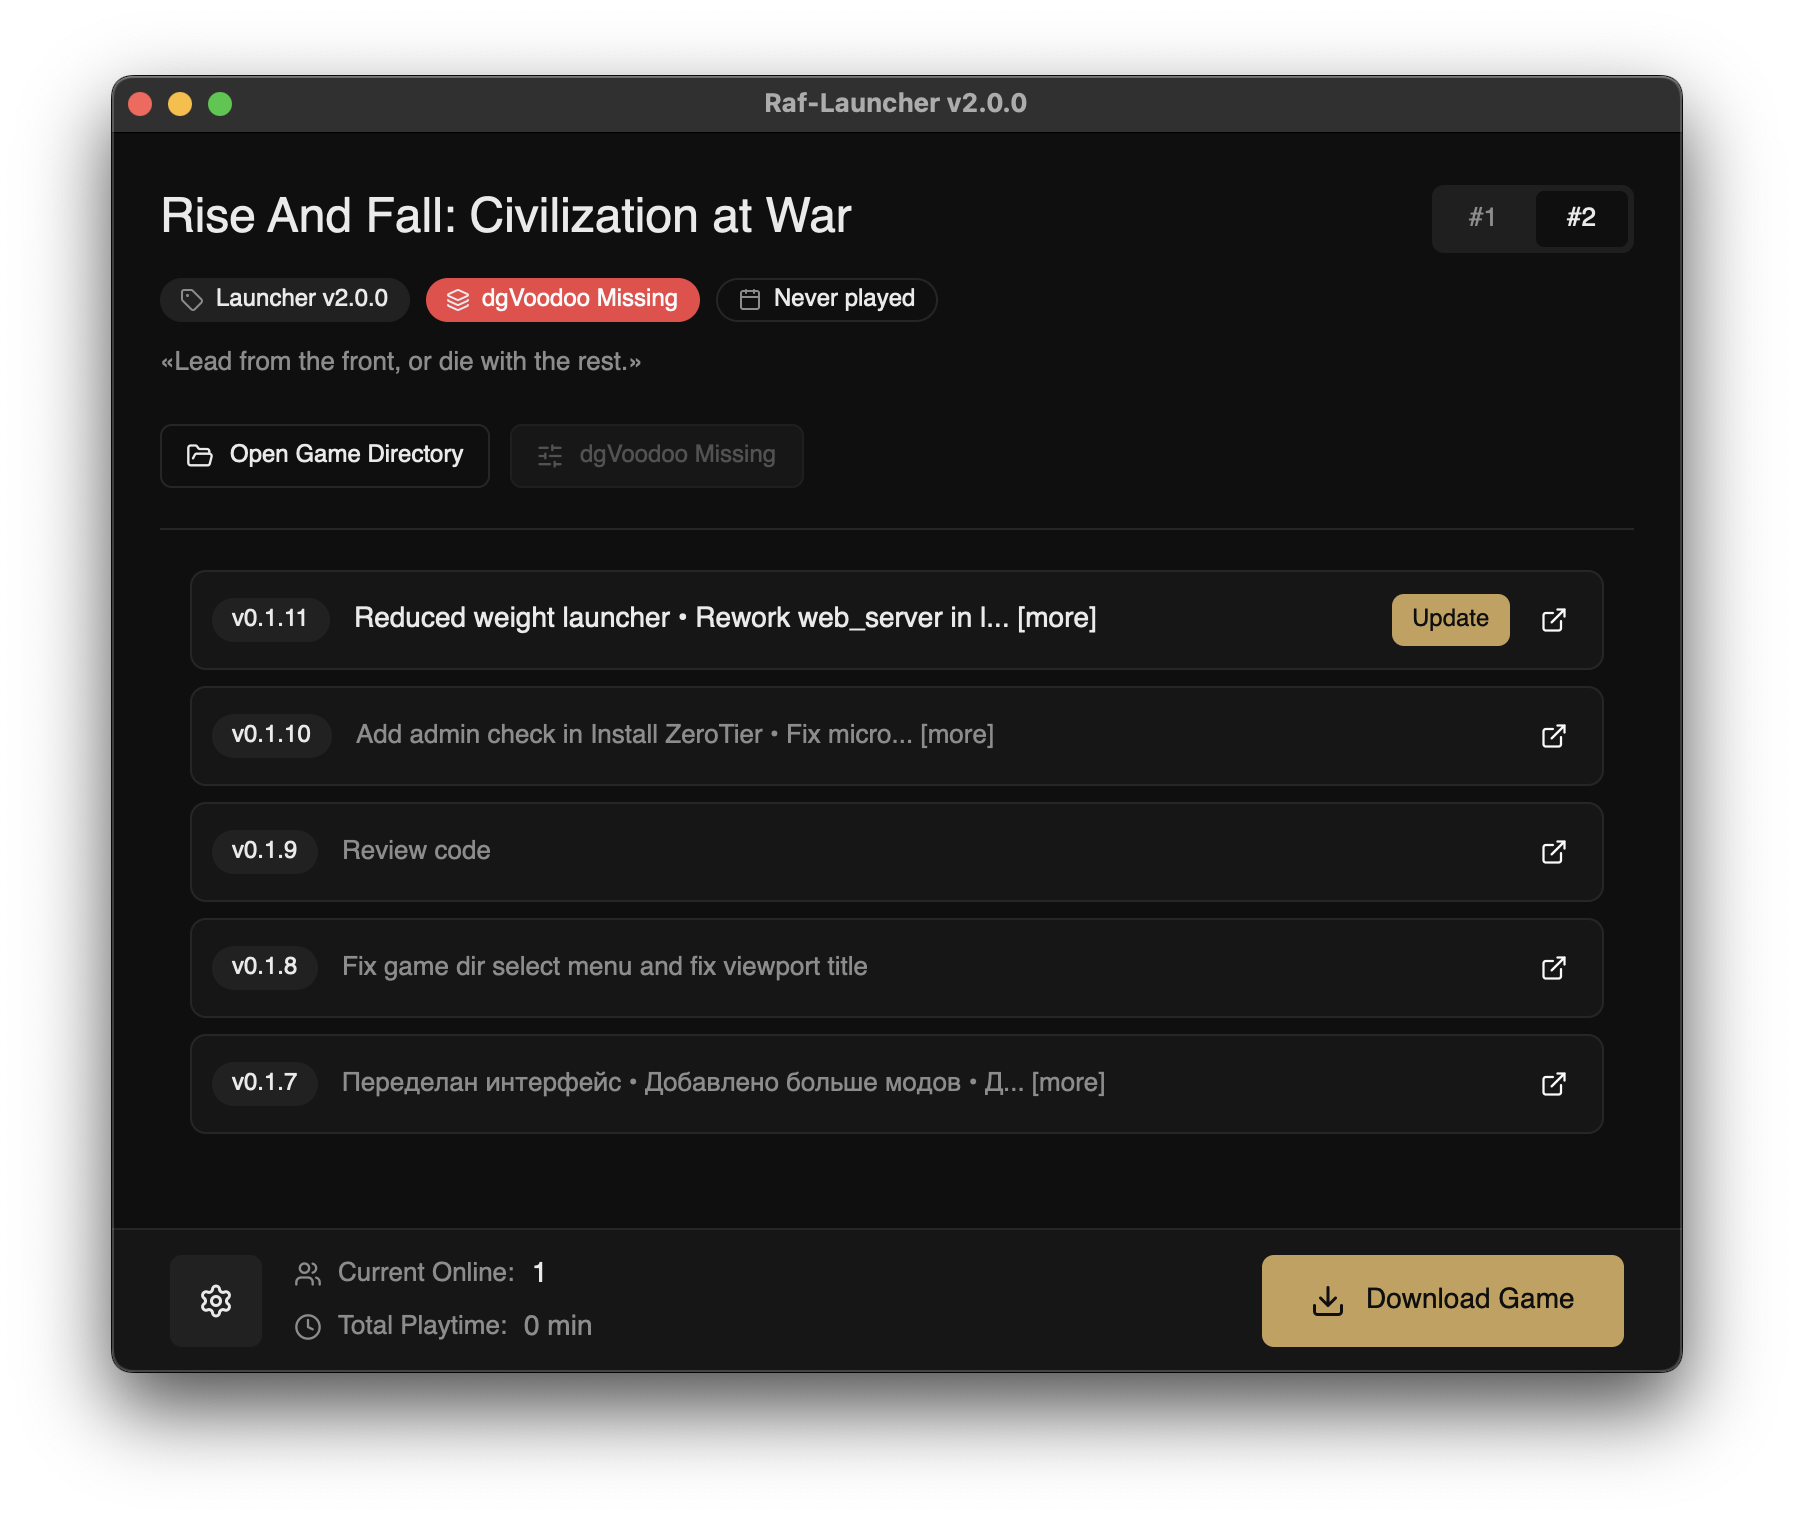
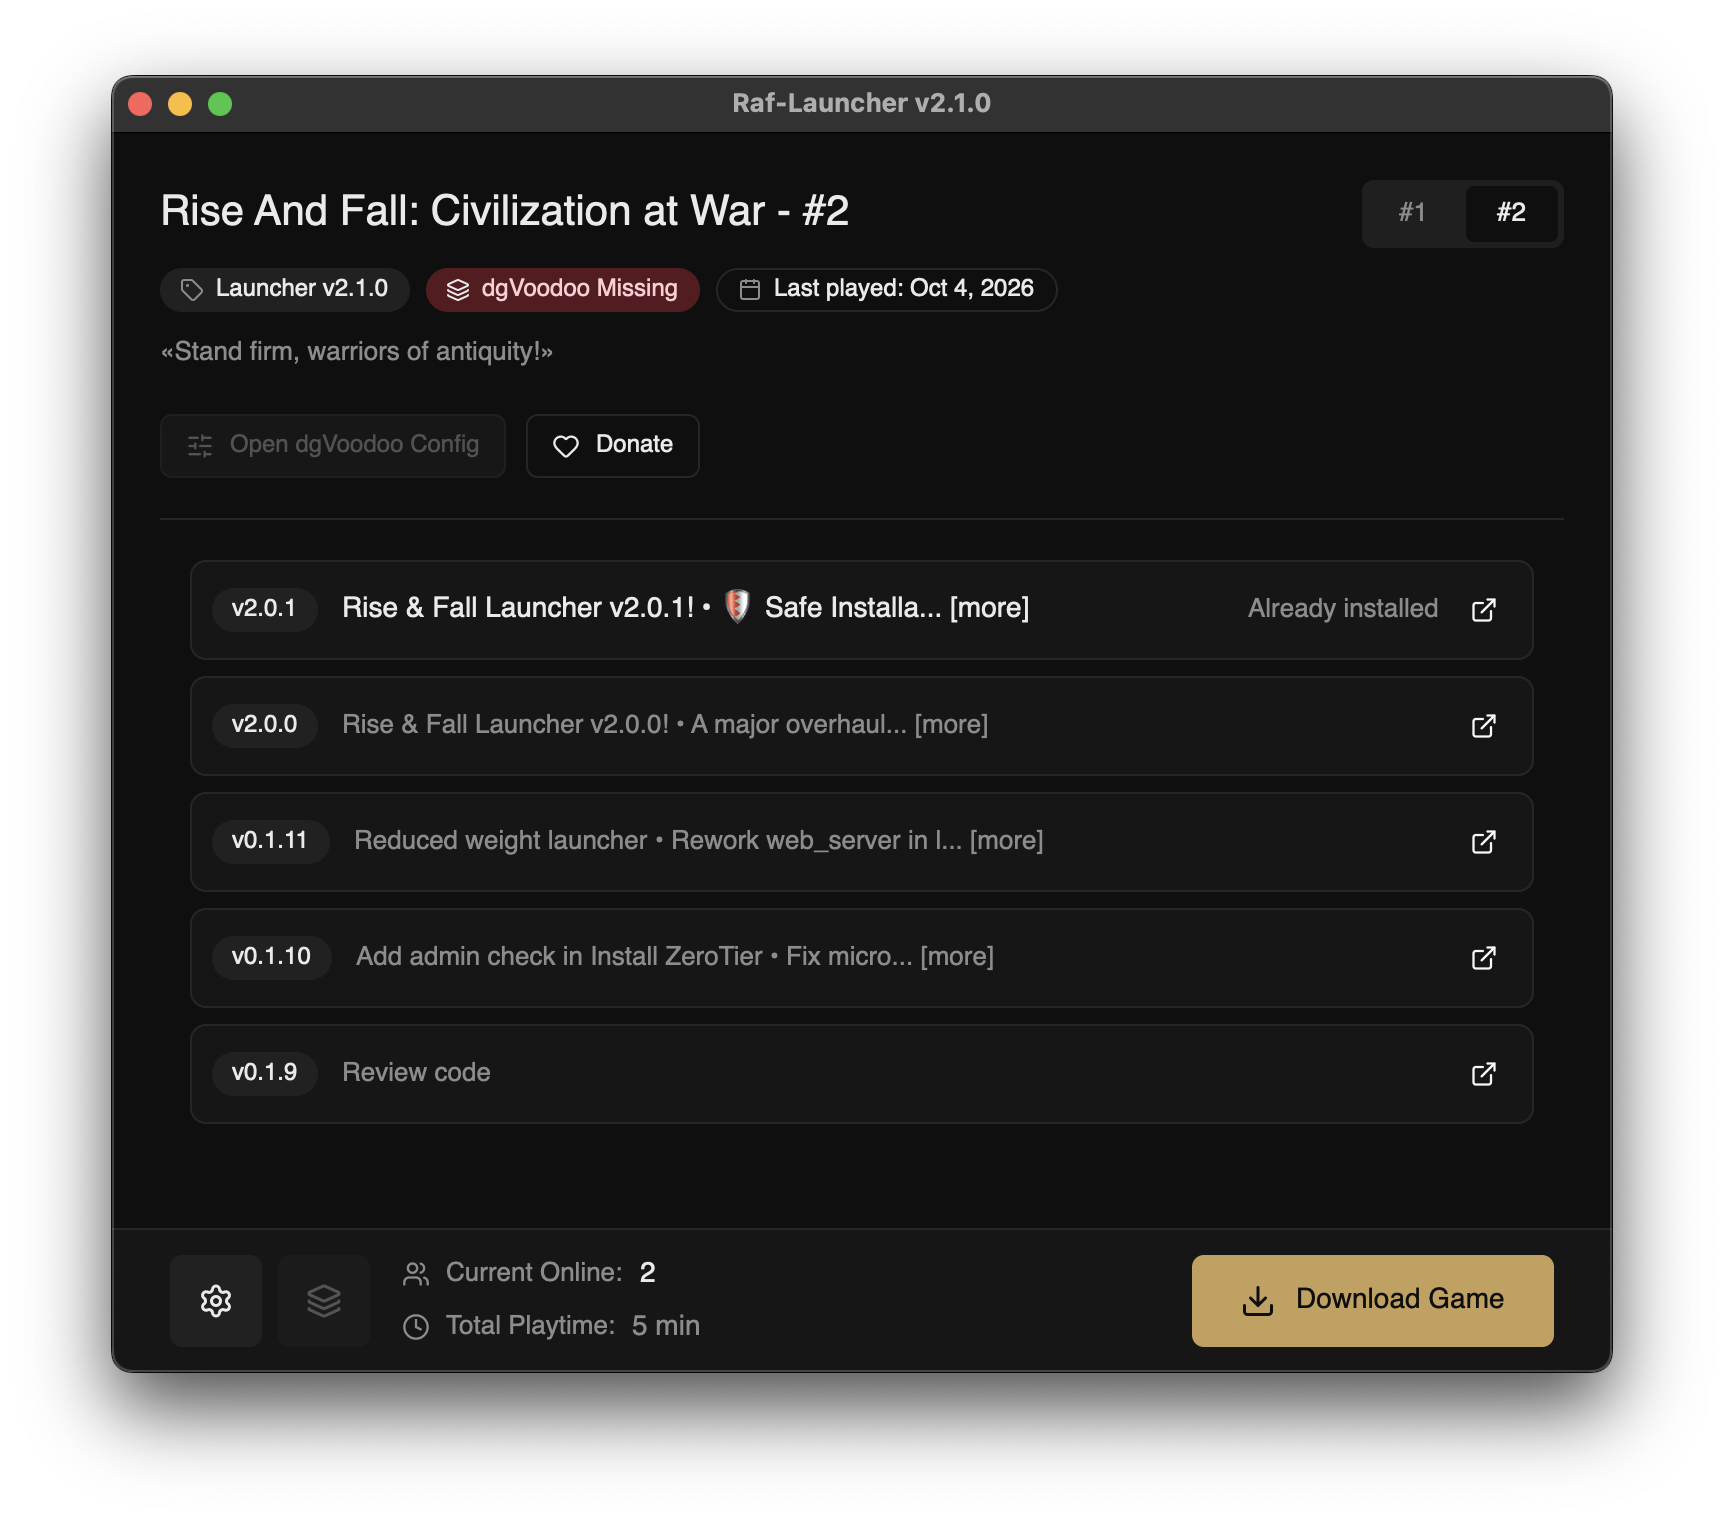
feat(updater,installer): request UAC elevation for protected dirs, filter .node in installer, and update preview

diff --git a/lib/updater/updater.ts b/lib/updater/updater.ts
@@ -77,6 +77,49 @@ function findExecutableInDir(dir: string): string | null {
   return fallbackExe || entries[0] || null;
 }
 
+export async function canWriteToDirectory(dir: string): Promise<boolean> {
+  const probePath = join(dir, `.raf-write-probe-${process.pid}-${Date.now()}`);
+  try {
+    await writeFile(probePath, "1", "utf-8");
+    await rm(probePath, { force: true });
+    return true;
+  } catch {
+    try {
+      await rm(probePath, { force: true });
+    } catch {}
+    return false;
+  }
+}
+
+export function buildPowerShellElevationScript(batPath: string): string {
+  const escapedPath = batPath.replace(/'/g, "''");
+  return `Start-Process -FilePath '${escapedPath}' -Verb RunAs -WindowStyle Hidden`;
+}
+
+async function launchElevatedBatch(batPath: string): Promise<boolean> {
+  const script = buildPowerShellElevationScript(batPath);
+  const encoded = Buffer.from(script, "utf16le").toString("base64");
+
+  return new Promise((resolve) => {
+    const proc = spawn(
+      "powershell.exe",
+      ["-NoProfile", "-NonInteractive", "-WindowStyle", "Hidden", "-EncodedCommand", encoded],
+      {
+        stdio: "ignore",
+        windowsHide: true,
+      },
+    );
+
+    proc.on("close", (code) => {
+      resolve(code === 0);
+    });
+    proc.on("error", (err) => {
+      logger.error("updater", "Failed to spawn PowerShell for UAC elevation:", err);
+      resolve(false);
+    });
+  });
+}
+
 export async function downloadReleaseArchive(
   url: string,
   targetFilePath: string,
@@ -331,26 +374,53 @@ rmdir /s /q "!STAGING_DIR!" > nul 2>&1
 
     await writeFile(batPath, batContent, "utf-8");
 
-    logger.info("updater", `Launching update helper script: ${batPath}`);
-    const proc = spawn(
-      "cmd.exe",
-      [
-        "/c",
-        batPath,
-        String(process.pid),
-        payloadDir,
-        currentLauncherDir,
-        newExeDestPath,
-        currentExePath,
-      ],
-      {
-        detached: true,
-        stdio: "ignore",
-        windowsHide: true,
-      },
-    );
+    const needsElevation = !(await canWriteToDirectory(currentLauncherDir));
+    if (needsElevation) {
+      logger.info(
+        "updater",
+        `Target directory requires elevation (${currentLauncherDir}), requesting UAC...`,
+      );
+      const escapeBatArg = (val: string) => val.replace(/%/g, "%%");
+      const elevatedBatPath = join(tempDir, "elevate_update.bat");
+      const elevatedBatContent = `@echo off
+call "%~dp0apply_update.bat" "${escapeBatArg(String(process.pid))}" "${escapeBatArg(payloadDir)}" "${escapeBatArg(currentLauncherDir)}" "${escapeBatArg(newExeDestPath)}" "${escapeBatArg(currentExePath)}"
+(goto) 2>nul & del "%~f0"
+`;
+      await writeFile(elevatedBatPath, elevatedBatContent, "utf-8");
 
-    proc.unref();
+      const elevated = await launchElevatedBatch(elevatedBatPath);
+      if (!elevated) {
+        logger.warn("updater", "UAC elevation was cancelled or failed");
+        await rm(tempDir, { recursive: true, force: true });
+        return {
+          success: false,
+          error: "Administrator permission is required to update in a protected folder",
+        };
+      }
+
+      logger.info("updater", `Launched elevated update helper script: ${elevatedBatPath}`);
+    } else {
+      logger.info("updater", `Launching update helper script: ${batPath}`);
+      const proc = spawn(
+        "cmd.exe",
+        [
+          "/c",
+          batPath,
+          String(process.pid),
+          payloadDir,
+          currentLauncherDir,
+          newExeDestPath,
+          currentExePath,
+        ],
+        {
+          detached: true,
+          stdio: "ignore",
+          windowsHide: true,
+        },
+      );
+
+      proc.unref();
+    }
 
     setTimeout(() => {
       process.exit(0);

diff --git a/test/updater.test.ts b/test/updater.test.ts
@@ -1,4 +1,7 @@
 import { describe, expect, it } from "bun:test";
+import { chmod, mkdir, readdir, rm } from "node:fs/promises";
+import { tmpdir } from "node:os";
+import { join } from "node:path";
 import en from "@/lang/en.json";
 import ru from "@/lang/ru.json";
 import ua from "@/lang/ua.json";
@@ -9,7 +12,12 @@ import {
   isDifferentVersion,
   isNewerVersion,
 } from "@/lib/updater/compare";
-import { isDevMode, resolveDownloadUrl } from "@/lib/updater/updater";
+import {
+  buildPowerShellElevationScript,
+  canWriteToDirectory,
+  isDevMode,
+  resolveDownloadUrl,
+} from "@/lib/updater/updater";
 
 describe("Updater: Version Comparison", () => {
   it("cleans versions properly", () => {
@@ -72,6 +80,43 @@ describe("Updater: Download URL Resolution", () => {
 
   it("detects dev mode correctly in Bun test environment", () => {
     expect(isDevMode()).toBe(true);
+  });
+});
+
+describe("Updater: Write Access & Elevation Helpers", () => {
+  it("returns true for a writable directory and removes probe file", async () => {
+    const dir = join(tmpdir(), `raf-write-ok-${Date.now()}`);
+    await mkdir(dir, { recursive: true });
+    try {
+      expect(await canWriteToDirectory(dir)).toBe(true);
+      expect(await readdir(dir)).toEqual([]);
+    } finally {
+      await rm(dir, { recursive: true, force: true });
+    }
+  });
+
+  it("returns false for a non-existent or read-only directory", async () => {
+    const missingDir = join(tmpdir(), `raf-write-missing-${Date.now()}`, "nested");
+    expect(await canWriteToDirectory(missingDir)).toBe(false);
+
+    if (process.platform !== "win32") {
+      const roDir = join(tmpdir(), `raf-write-ro-${Date.now()}`);
+      await mkdir(roDir, { recursive: true });
+      await chmod(roDir, 0o555);
+      try {
+        expect(await canWriteToDirectory(roDir)).toBe(false);
+      } finally {
+        await chmod(roDir, 0o755);
+        await rm(roDir, { recursive: true, force: true });
+      }
+    }
+  });
+
+  it("builds PowerShell RunAs command escaping single quotes", () => {
+    const cmd = buildPowerShellElevationScript("C:\\Users\\O'Neil\\Temp\\elevate_update.bat");
+    expect(cmd).toBe(
+      "Start-Process -FilePath 'C:\\Users\\O''Neil\\Temp\\elevate_update.bat' -Verb RunAs -WindowStyle Hidden",
+    );
   });
 });
 
